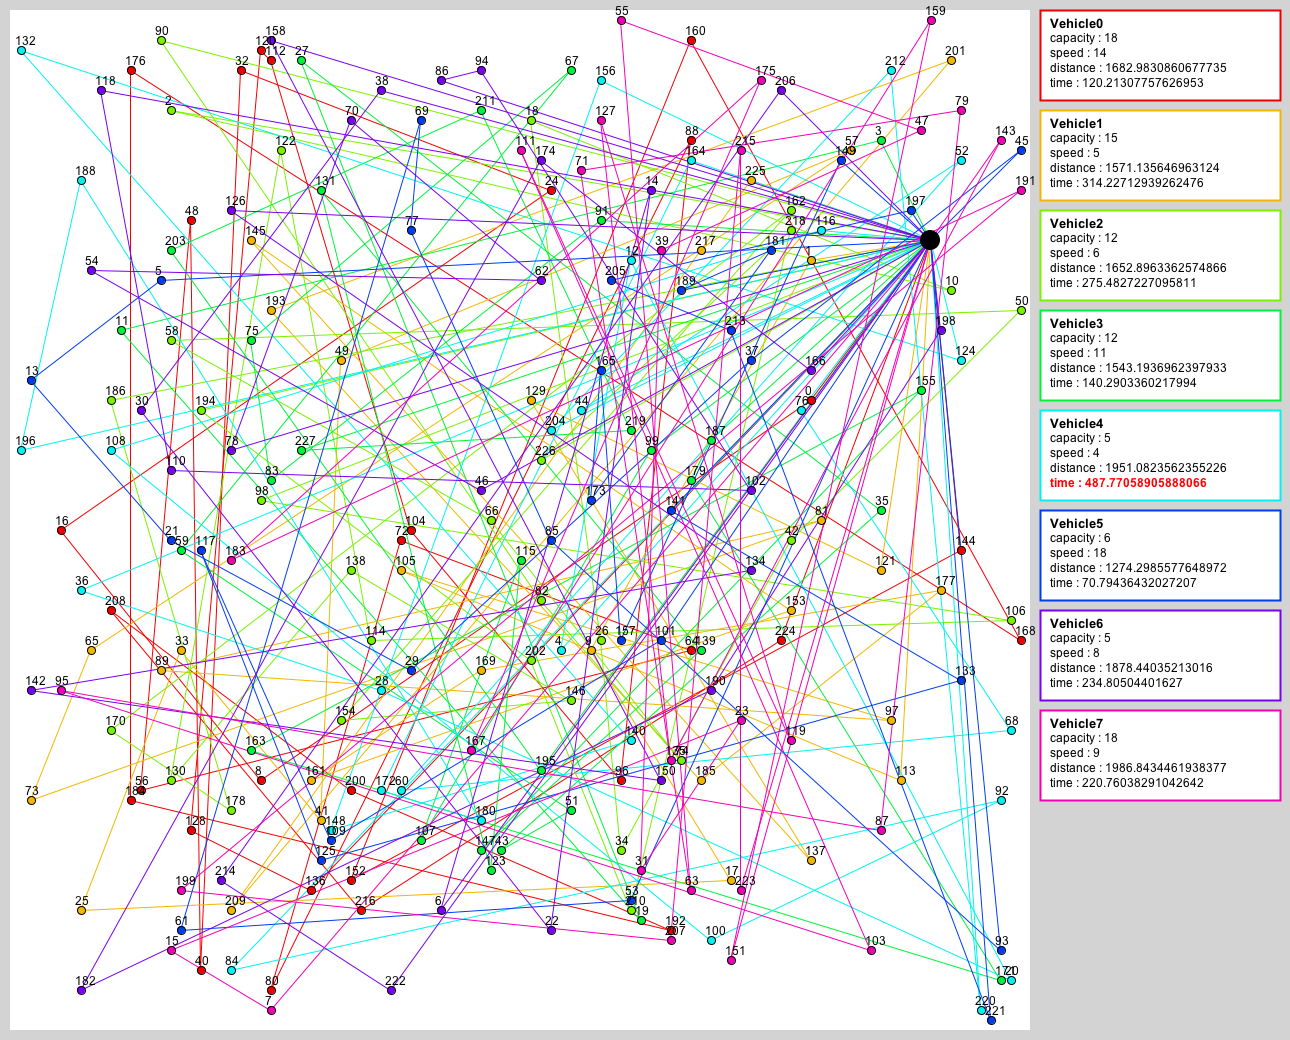
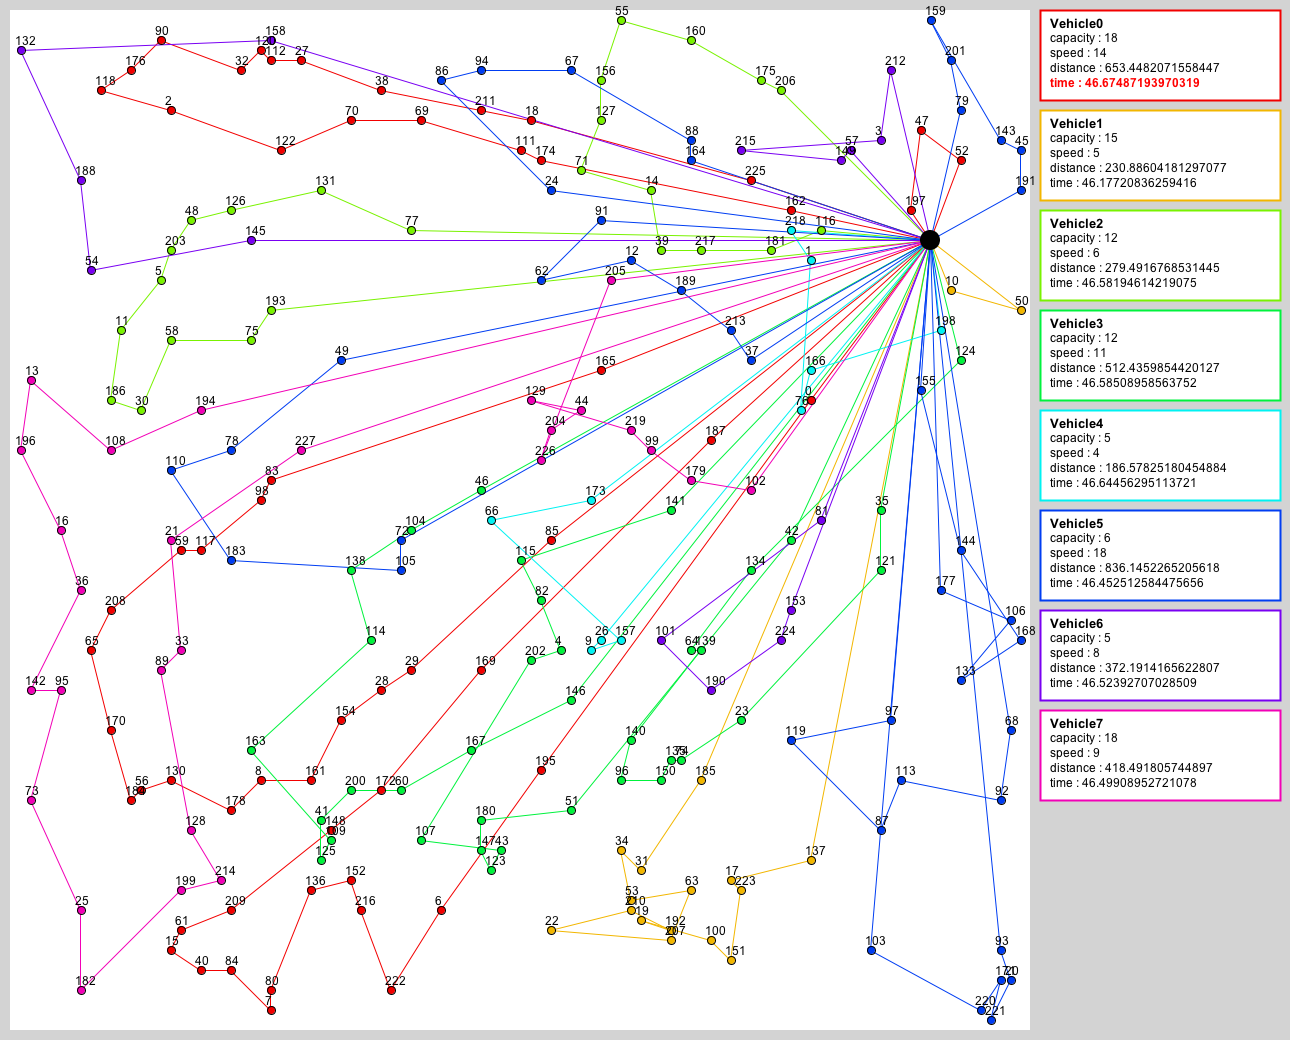
VRPの目安を手元で計算した．

diff --git a/VRP/README.md b/VRP/README.md
@@ -1,6 +1,6 @@
 # VRP（Vehicle Routing Problem）
 ## 問題文
-配送最適化問題です．目的地の数（N）・位置（Xi, Yi），倉庫の位置（depotX, depotY），トラックの台数（M），各トラックの容量（cap_j）・スピード（speed_j）が与えられます．全ての目的地に荷物を配達して，全てのトラックが倉庫に戻ってくるのにかかる時間をなるべく小さくしてください．倉庫では，トラックの容量分の荷物を積みます．配達途中に荷物がなくなったら倉庫に荷物を積みに戻る必要があります．
+配送最適化問題です．目的地の数（N）・位置（Xi, Yi），倉庫の位置（depotX, depotY），トラックの台数（M），各トラックの容量（cap_j）・スピード（speed_j）が与えられます．全ての目的地に荷物を１つ配達して，全てのトラックが倉庫に戻ってくるのにかかる時間をなるべく小さくしてください．倉庫では，トラックの容量分の荷物を積みます．配達途中に荷物がなくなったら倉庫に荷物を積みに戻る必要があります．
 
 ## 制約
 50 <= N <= 500  
@@ -43,7 +43,7 @@ KM-1 vM-1_0 vM-1_1 vM-1_2 ... vM-1_KM-1
 ```
 
 ## スコア
-各トラック毎に，荷物を配達して倉庫に帰ってくるまでの移動距離を算出する．この移動距離をトラックのスピードで割り，配達時間とする．スコアは各トラックの配達時間のうち最も時間がかかったものとする．
+各トラック毎に，荷物を配達して倉庫に帰ってくるまでの移動距離を算出する．ただし，配達途中に荷物がなくなったら倉庫（depot）に荷物を積みに移動します．この移動距離をトラックのスピードで割り，配達時間とする．スコアは各トラックの配達時間のうち最も時間がかかったものとする．
 
 ## テスタ
 TopCoder の Marathon Match と同じです．```<command>```にプログラムへのパス，```<seed>```に乱数のシードを入れてください．
@@ -60,6 +60,18 @@ $ java -jar tester.jar -exec <command> -seed <seed>
 ```
 
 ## 目安
-そのうち
+ストリングモデルというものを用いて同様の問題に焼き鈍しを適用している文献[1]があったので，これを参考にして各ケース60sかけて配送計画を計算した．まだまだ良い値が出せると思います．  
+
+1) 44.319682809649095
+2) 46.67487193970319
+3) 141.71655111504828
+4) 25.389159623916015
+5) 43.57780873221895
+6) 110.92429614793592
+7) 22.31908173459246
+8) 73.5507658807332
+9) 87.74295704791069
+10) 231.00544267230214
 
 ## 参考文献
+[1] [積載量制約のある複数車両による辺巡回配送計画問題の模擬焼きなまし法を用いた近似解法](http://shakai-gijutsu.org/vol7/7_131.pdf)
